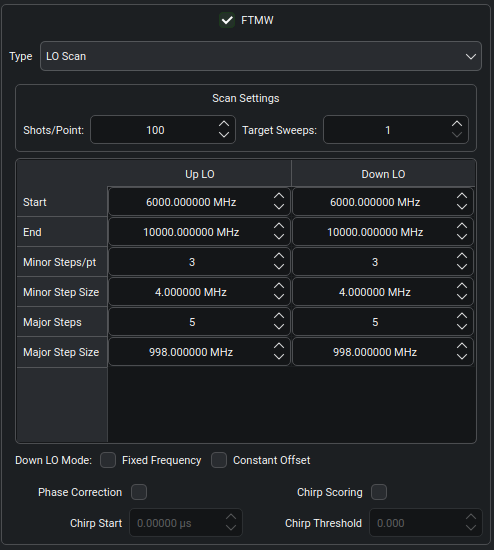
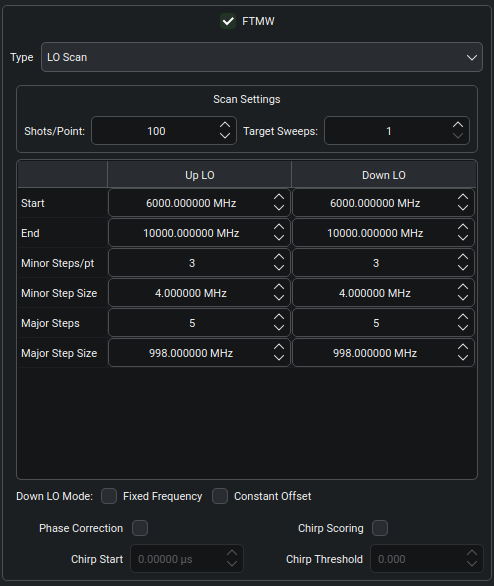
Move LO scan table row labels into a regular first column
The Up/Down LO matrix stays a QTableWidget (two value columns with
meaningful headers are not a SettingsTable fit), but the row names move
out of the vertical header into a real column-0 cell, built like
SettingsTable's label cells, so it reads consistently with the ported
settings tables. Refresh the LO-scan screenshot to match.

Changed region(s): [[0.0, 0.0, 1.0, 0.9891], [0.4555, 0.9273, 0.4858, 0.9582]]

diff --git a/src/gui/expsetup/loscanconfigwidget.cpp b/src/gui/expsetup/loscanconfigwidget.cpp
@@ -3,6 +3,7 @@
 #include <climits>
 
 using namespace BC::Key::WizLoScan;
+using namespace Qt::StringLiterals;
 
 #include <QGroupBox>
 #include <QSpinBox>
@@ -18,8 +19,9 @@ using namespace BC::Key::WizLoScan;
 #include <data/experiment/experiment.h>
 #include <data/experiment/ftmwconfigtypes.h>
 namespace {
-constexpr int UpCol = 0;
-constexpr int DownCol = 1;
+constexpr int LabelCol = 0;
+constexpr int UpCol = 1;
+constexpr int DownCol = 2;
 constexpr int StartRow = 0;
 constexpr int EndRow = 1;
 constexpr int MinorStepsRow = 2;
@@ -83,16 +85,32 @@ LOScanConfigWidget::LOScanConfigWidget(Experiment *exp, QWidget *parent)
     p_downNumMajorBox = makeCountBox(get<int>(downNumMajor, 2), 2, 100000,
         QString("Number of major steps desired.\nChanging this will update the major step size."));
 
-    p_loTable = new QTableWidget(6, 2, this);
-    p_loTable->setHorizontalHeaderLabels({"Up LO", "Down LO"});
-    p_loTable->setVerticalHeaderLabels({"Start", "End",
-                                        "Minor Steps/pt", "Minor Step Size",
-                                        "Major Steps", "Major Step Size"});
-    p_loTable->horizontalHeader()->setSectionResizeMode(QHeaderView::Stretch);
+    p_loTable = new QTableWidget(6, 3, this);
+    p_loTable->setHorizontalHeaderLabels({"", "Up LO", "Down LO"});
+    p_loTable->horizontalHeader()->setSectionResizeMode(LabelCol, QHeaderView::ResizeToContents);
+    p_loTable->horizontalHeader()->setSectionResizeMode(UpCol, QHeaderView::Stretch);
+    p_loTable->horizontalHeader()->setSectionResizeMode(DownCol, QHeaderView::Stretch);
     p_loTable->verticalHeader()->setSectionResizeMode(QHeaderView::ResizeToContents);
+    p_loTable->verticalHeader()->setVisible(false);
     p_loTable->setSelectionMode(QAbstractItemView::NoSelection);
+    p_loTable->setEditTriggers(QAbstractItemView::NoEditTriggers);
     p_loTable->setFocusPolicy(Qt::NoFocus);
     p_loTable->setShowGrid(true);
+
+    // Row labels live in a regular first column (mirroring SettingsTable's
+    // label cells) rather than the vertical header, for visual
+    // consistency with the ported settings tables.
+    auto setRowLabel = [this](int row, const QString &text) {
+        auto *it = new QTableWidgetItem(text);
+        it->setFlags(Qt::ItemIsEnabled);
+        p_loTable->setItem(row, LabelCol, it);
+    };
+    setRowLabel(StartRow,      "Start"_L1);
+    setRowLabel(EndRow,        "End"_L1);
+    setRowLabel(MinorStepsRow, "Minor Steps/pt"_L1);
+    setRowLabel(MinorSizeRow,  "Minor Step Size"_L1);
+    setRowLabel(MajorStepsRow, "Major Steps"_L1);
+    setRowLabel(MajorSizeRow,  "Major Step Size"_L1);
 
     p_loTable->setCellWidget(StartRow,      UpCol,   p_upStartBox);
     p_loTable->setCellWidget(EndRow,        UpCol,   p_upEndBox);